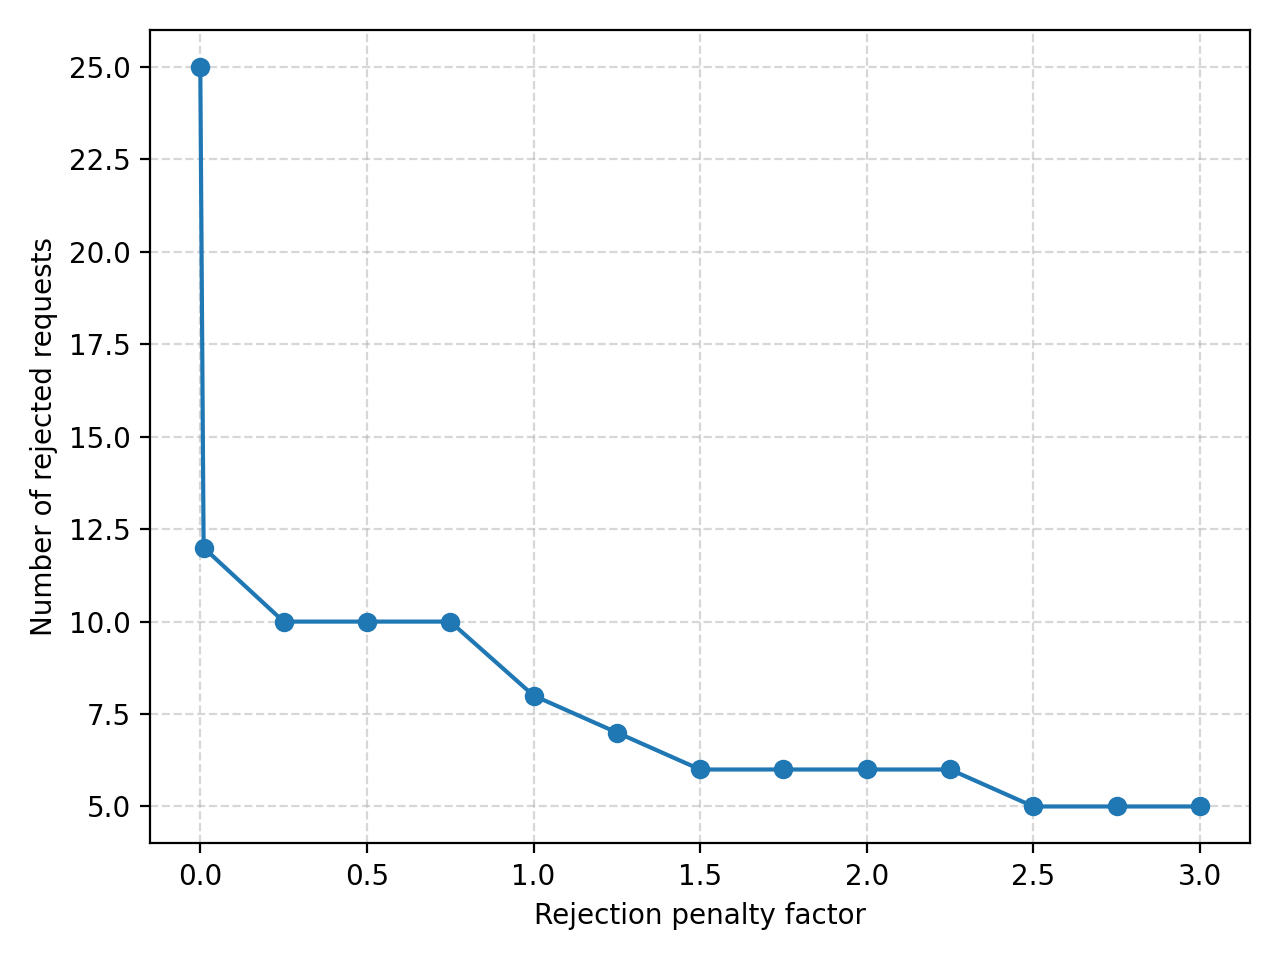
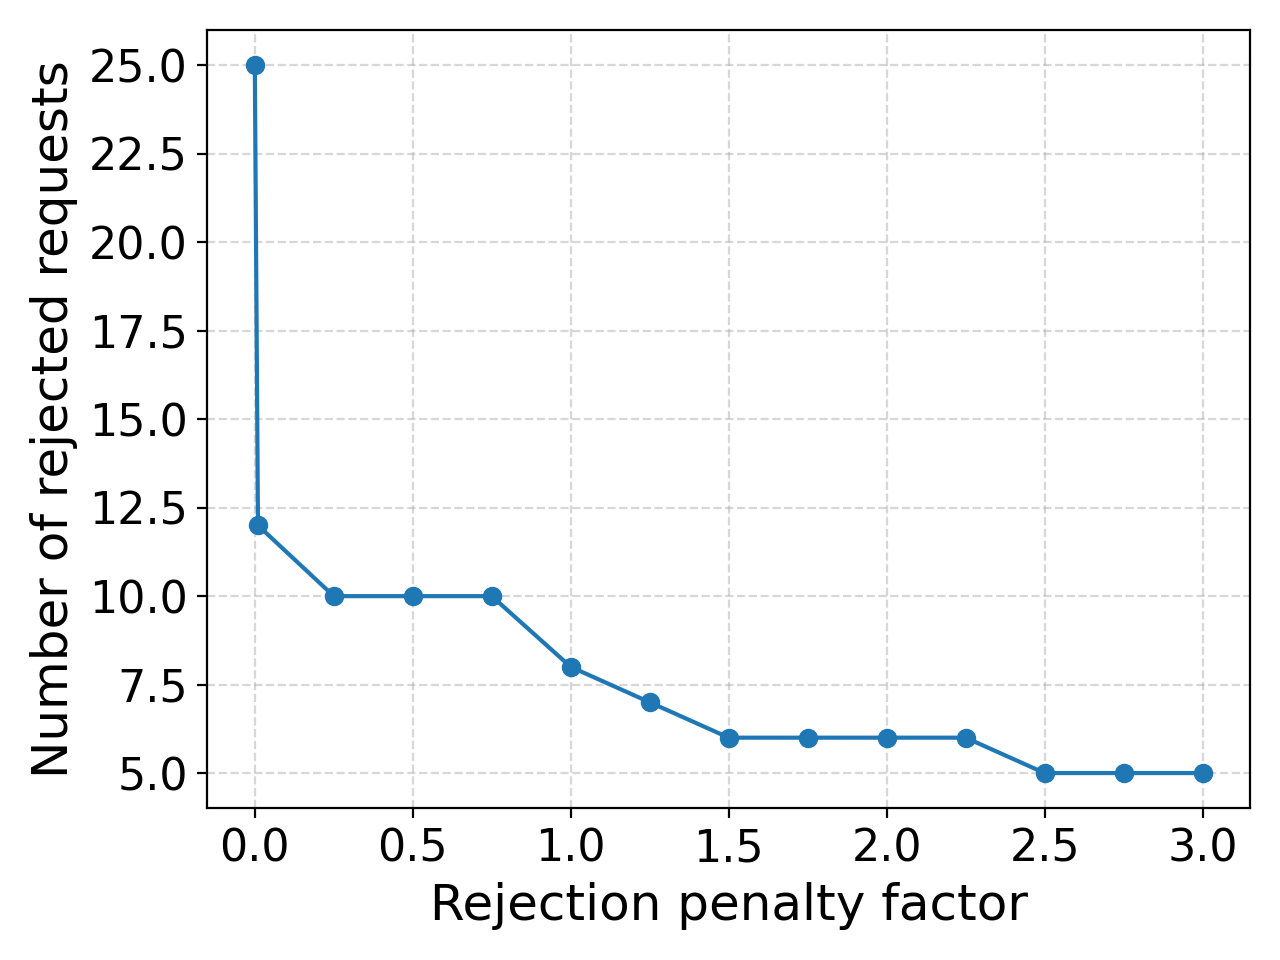
Updated graphs with bigger font

diff --git a/Sensitivity/Rejection/analyze_rejection_sensitivity.py b/Sensitivity/Rejection/analyze_rejection_sensitivity.py
@@ -244,12 +244,20 @@ def plot_sensitivity(rows: List[Dict[str, Any]], prefix: str = "sensitivity_rej"
     p95_dep = [r.get("p95_D_Dep_req", float("nan")) for r in rows]
 
 
+    BIG_FONT = 16
+    BIGGER_FONT = 18
+    BIG_TICKS = 14
+    BIGGER_TICKS = 16
+
+
 
     # #rejected vs factor
     plt.figure()
     plt.plot(factors, n_rej, marker="o")
-    plt.xlabel("Rejection penalty factor")
-    plt.ylabel("Number of rejected requests")
+    plt.xlabel("Rejection penalty factor", fontsize=BIGGER_FONT)
+    plt.ylabel("Number of rejected requests", fontsize=BIGGER_FONT)
+    plt.xticks(fontsize=BIGGER_TICKS)
+    plt.yticks(fontsize=BIGGER_TICKS)
     plt.grid(True, linestyle="--", alpha=0.5)
     plt.tight_layout()
     out1 = f"{prefix}_num_rejected.png"
@@ -259,9 +267,11 @@ def plot_sensitivity(rows: List[Dict[str, Any]], prefix: str = "sensitivity_rej"
     # Acceptance rate vs factor
     plt.figure()
     plt.plot(factors, acc_rate, marker="o")
-    plt.xlabel("Rejection penalty factor")
-    plt.ylabel("Acceptance rate (requests)")
+    plt.xlabel("Rejection penalty factor", fontsize=BIGGER_FONT)
+    plt.ylabel("Acceptance rate (requests)", fontsize=BIGGER_FONT)
     plt.ylim(0.0, 1.05)
+    plt.xticks(fontsize=BIGGER_TICKS)
+    plt.yticks(fontsize=BIGGER_TICKS)
     plt.grid(True, linestyle="--", alpha=0.5)
     plt.tight_layout()
     out2 = f"{prefix}_acceptance_rate.png"
@@ -271,9 +281,11 @@ def plot_sensitivity(rows: List[Dict[str, Any]], prefix: str = "sensitivity_rej"
     # P95 departure delay vs factor (tail-delay metric)
     plt.figure()
     plt.plot(factors, p95_dep, marker="o")
-    plt.xlabel("Rejection penalty factor")
-    plt.ylabel("P95 departure delay (minutes)")
+    plt.xlabel("Rejection penalty factor", fontsize=BIG_FONT)
+    plt.ylabel("P95 departure delay (minutes)", fontsize=BIG_FONT)
     plt.grid(True, linestyle="--", alpha=0.5)
+    plt.xticks(fontsize=BIG_TICKS)
+    plt.yticks(fontsize=BIG_TICKS)
     plt.tight_layout()
     out_p95 = f"{prefix}_p95_dep_delay.png"
     plt.savefig(out_p95, dpi=200)
@@ -287,9 +299,11 @@ def plot_sensitivity(rows: List[Dict[str, Any]], prefix: str = "sensitivity_rej"
     plt.plot(factors, obj_dep, marker="o", label="Departure delay cost")
     plt.plot(factors, obj_eps, marker="o", label="Positioning (ε_p term)")
     plt.plot(factors, obj_tot, marker="o", linestyle="--", label="Total objective")
-    plt.xlabel("Rejection penalty factor")
-    plt.ylabel("Cost contribution")
+    plt.xlabel("Rejection penalty factor", fontsize=BIG_FONT)
+    plt.ylabel("Cost contribution", fontsize=BIG_FONT)
     plt.grid(True, linestyle="--", alpha=0.5)
+    plt.xticks(fontsize=BIG_TICKS)
+    plt.yticks(fontsize=BIG_TICKS)
     plt.legend()
     plt.tight_layout()
     out3 = f"{prefix}_objective_components.png"
